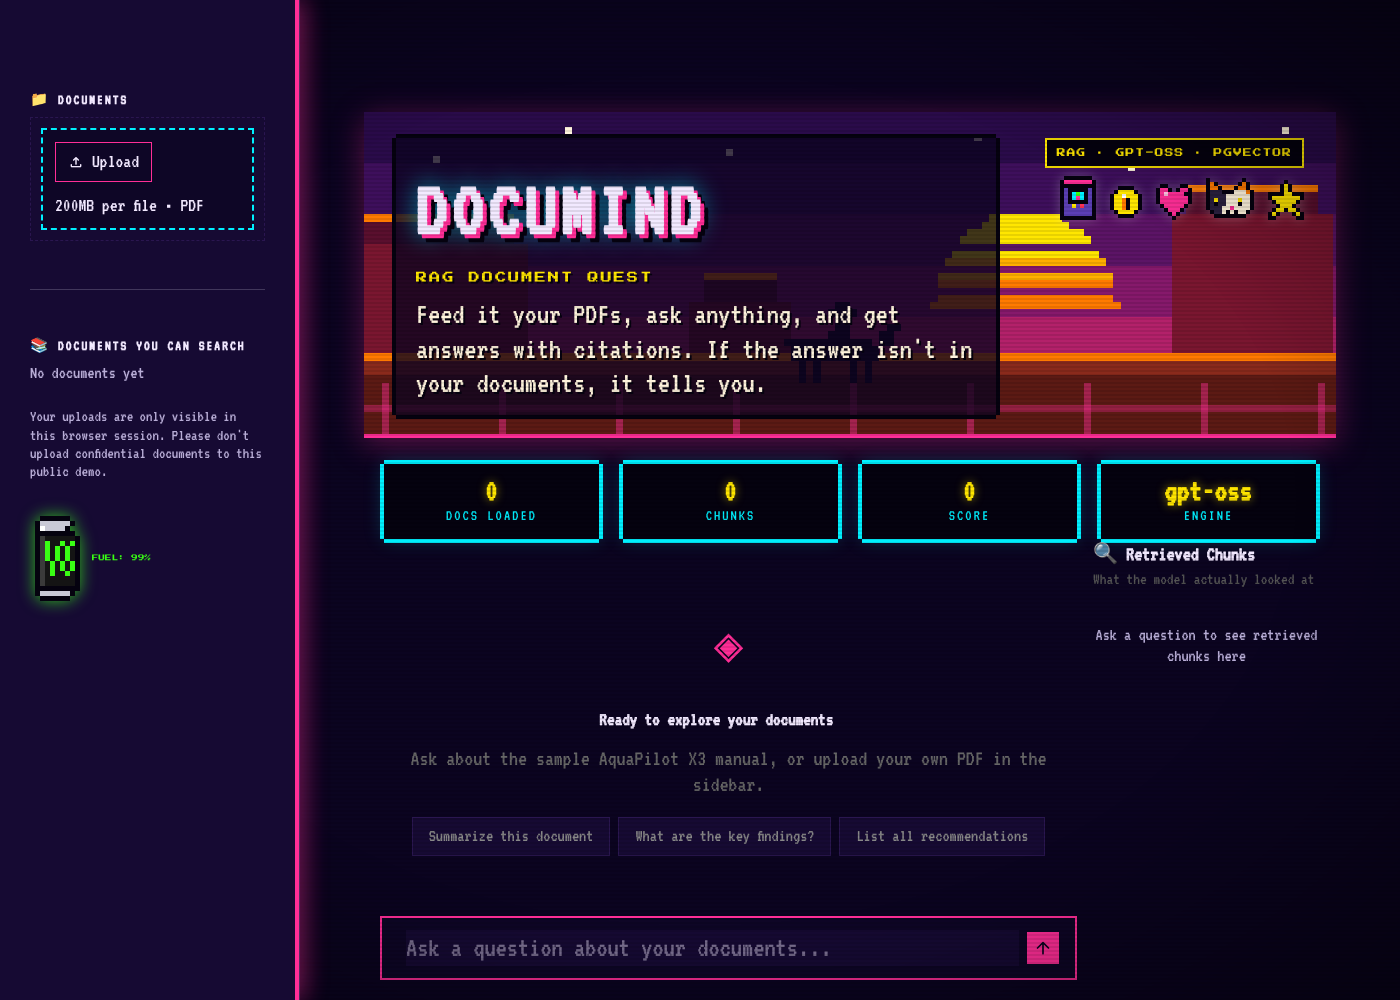
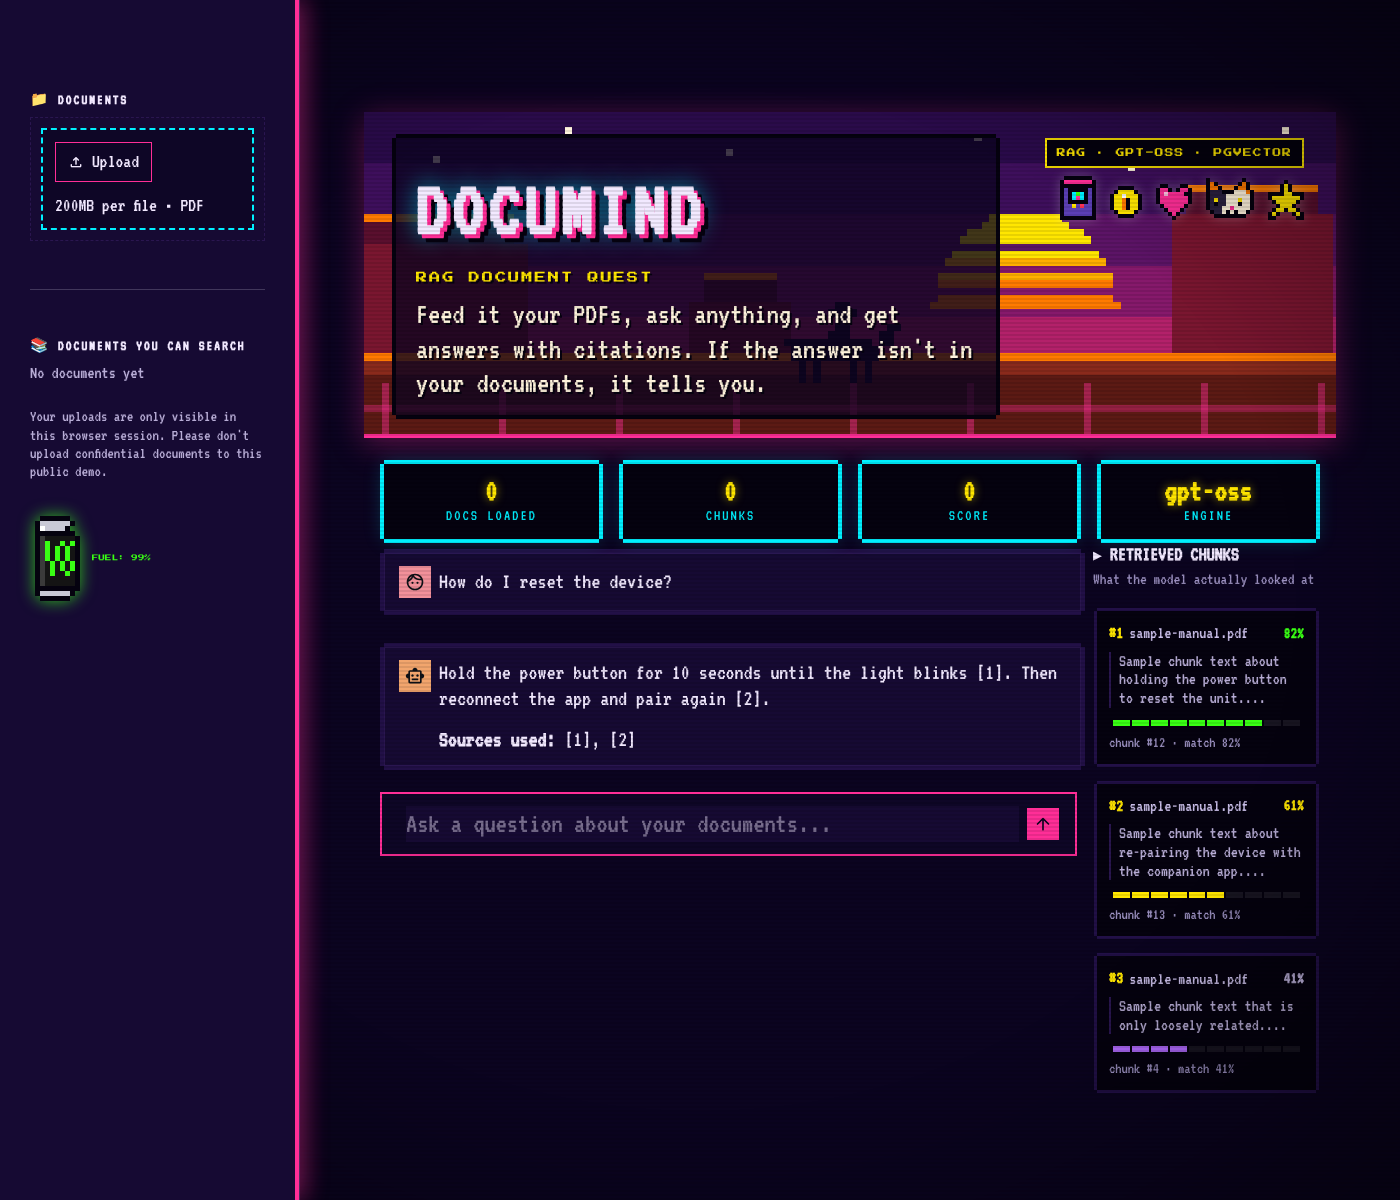
Polish DocuMind: faster answers, working chips, sidebar fix (#4)
- Fix: closing the sidebar hid the button that reopens it (the CSS hid the
  whole header); the reopen button now shows as a neon arrow
- Stream answers word by word instead of one screen update per character
- Load the embedding model in the background at startup, so the first
  question isn't slowed by the model load
- Suggestion chips now actually ask their question
- Pixel-framed chunk cards with a match bar, pixel empty state,
  readable contrast on small grey text

Claude-Session: https://claude.ai/code/session_01Qp39oCquhDt7F7F7ydDNxr

diff --git a/app.py b/app.py
@@ -1,12 +1,15 @@
 import streamlit as st
 
-from retro_ui import arcade_hero, energy_can_egg, inject_theme
+from retro_ui import arcade_hero, energy_can_egg, inject_theme, pixel_svg, xp_bar
+import re
+import threading
 import time
 import uuid
 from config import MAX_UPLOAD_MB
 from ingest import ingest_pdf
 from retriever import retrieve_relevant_chunks, format_context
 from llm import answer_with_citations
+from embeddings import get_embedder
 from database import supabase
 from text_utils import display_name, visible_to
 
@@ -19,6 +22,15 @@ st.set_page_config(
     layout="wide",
     initial_sidebar_state="auto"
 )
+
+@st.cache_resource(show_spinner=False)
+def _warm_embedder():
+    """Load the embedding model in the background so the first question isn't slow."""
+    threading.Thread(target=get_embedder, daemon=True, name="warm-embedder").start()
+    return True
+
+
+_warm_embedder()
 
 # ─────────────────────────────────────────────
 # Session State
@@ -39,6 +51,14 @@ if "session_id" not in st.session_state:
 if st.session_state.get("chat_q"):
     st.session_state.questions_asked += 1
 
+SUGGESTIONS = ["Summarize this document", "What are the key findings?", "List all recommendations"]
+
+
+def _ask(question):
+    """Suggestion chips ask their question as if it were typed."""
+    st.session_state.pending_q = question
+    st.session_state.questions_asked += 1
+
 # ─────────────────────────────────────────────
 # CSS Injection
 # ─────────────────────────────────────────────
@@ -50,7 +70,11 @@ st.markdown("""
 /* ── Hide Streamlit defaults ── */
 #MainMenu {visibility: hidden;}
 footer {visibility: hidden;}
-header {visibility: hidden !important;}
+header[data-testid="stHeader"] {background: transparent !important;}
+/* the header holds the button that reopens the sidebar, so it must stay visible */
+[data-testid="stExpandSidebarButton"], [data-testid="stSidebarCollapsedControl"],
+[data-testid="stSidebarCollapseButton"] {visibility: visible !important; display: flex !important;}
+[data-testid="stToolbarActions"], [data-testid="stMainMenu"], .stAppDeployButton {display: none !important;}
 .stDeployButton {display: none;}
 
 /* ── Root / body ── */
@@ -66,7 +90,7 @@ html, body, [data-testid="stAppViewContainer"], [data-testid="stApp"] {
 
 /* ── Custom Scrollbar ── */
 ::-webkit-scrollbar { width: 4px; }
-::-webkit-scrollbar-track { background: #111; }
+::-webkit-scrollbar-track { background: #05020F; }
 ::-webkit-scrollbar-thumb { background: #FF2E97; border-radius: 0; }
 
 /* ── Buttons ── */
@@ -98,7 +122,7 @@ html, body, [data-testid="stAppViewContainer"], [data-testid="stApp"] {
     border-color: #FF2E97 !important;
 }
 [data-testid="stFileUploader"] label {
-    color: #888 !important;
+    color: #C9BEE8 !important;
     font-family: 'VT323', monospace !important;
 }
 [data-testid="stFileUploader"] button {
@@ -246,7 +270,7 @@ html, body, [data-testid="stAppViewContainer"], [data-testid="stApp"] {
     line-height: 1.1;
 }
 .app-subtitle {
-    color: #888;
+    color: #C9BEE8;
     font-size: 0.85rem;
     margin: 4px 0 0;
     font-family: 'VT323', monospace;
@@ -307,7 +331,7 @@ html, body, [data-testid="stAppViewContainer"], [data-testid="stApp"] {
     white-space: nowrap;
 }
 .success-stats {
-    color: #666;
+    color: #B8ADD6;
     font-size: 0.72rem;
     margin-top: 2px;
 }
@@ -335,7 +359,7 @@ html, body, [data-testid="stAppViewContainer"], [data-testid="stApp"] {
 .stat-item {
     text-align: center;
     padding: 14px 8px;
-    background: #111;
+    background: #05020F;
     border: 1px solid #1C0D40;
     border-radius: 0;
 }
@@ -348,7 +372,7 @@ html, body, [data-testid="stAppViewContainer"], [data-testid="stApp"] {
 }
 .stat-label {
     font-size: 0.7rem;
-    color: #555;
+    color: #9A8FBF;
     text-transform: uppercase;
     letter-spacing: 1px;
     margin-top: 2px;
@@ -375,7 +399,7 @@ html, body, [data-testid="stAppViewContainer"], [data-testid="stApp"] {
     margin: 0 0 8px;
 }
 .empty-subtitle {
-    color: #666;
+    color: #B8ADD6;
     font-size: 0.9rem;
     margin: 0;
 }
@@ -389,7 +413,7 @@ html, body, [data-testid="stAppViewContainer"], [data-testid="stApp"] {
 .chip {
     background: #160A33;
     border: 1px solid #2A1650;
-    color: #888;
+    color: #C9BEE8;
     padding: 8px 16px;
     border-radius: 0;
     font-size: 0.8rem;
@@ -404,8 +428,8 @@ html, body, [data-testid="stAppViewContainer"], [data-testid="stApp"] {
 
 /* ── Chunk cards ── */
 .chunk-card {
-    background: #111;
-    border: 1px solid #222;
+    background: #05020F;
+    border: none;
     border-radius: 0;
     padding: 12px;
     margin: 6px 0;
@@ -429,7 +453,7 @@ html, body, [data-testid="stAppViewContainer"], [data-testid="stApp"] {
     flex-shrink: 0;
 }
 .chunk-file {
-    color: #888;
+    color: #C9BEE8;
     font-size: 0.78rem;
     flex: 1;
     overflow: hidden;
@@ -438,9 +462,9 @@ html, body, [data-testid="stAppViewContainer"], [data-testid="stApp"] {
 }
 .sim-high { color: #39FF14; font-size: 0.75rem; font-weight: 600; }
 .sim-mid  { color: #FFE600; font-size: 0.75rem; font-weight: 600; }
-.sim-low  { color: #888;    font-size: 0.75rem; font-weight: 600; }
+.sim-low  { color: #B8ADD6;    font-size: 0.75rem; font-weight: 600; }
 .chunk-preview {
-    color: #666;
+    color: #B8ADD6;
     font-size: 0.78rem;
     line-height: 1.5;
     margin: 8px 0;
@@ -448,14 +472,14 @@ html, body, [data-testid="stAppViewContainer"], [data-testid="stApp"] {
     padding-left: 8px;
 }
 .chunk-footer {
-    color: #333;
+    color: #9A8FBF;
     font-size: 0.7rem;
 }
 
 /* ── Processing card ── */
 .processing-card {
-    background: #111;
-    border: 1px solid #222;
+    background: #05020F;
+    border: none;
     border-radius: 0;
     padding: 16px;
     margin: 8px 0;
@@ -492,7 +516,7 @@ html, body, [data-testid="stAppViewContainer"], [data-testid="stApp"] {
 }
 .panel-caption {
     font-size: 0.75rem;
-    color: #555;
+    color: #9A8FBF;
     margin-bottom: 12px;
 }
 </style>
@@ -690,18 +714,17 @@ with col1:
     # Intro card, cleared as soon as the first question is asked
     intro = st.empty()
     if not st.session_state.messages:
-        intro.markdown("""
+        intro_box = intro.container()
+        intro_box.markdown("""
         <div class="empty-state">
-            <div class="empty-icon">◈</div>
+            <div class="empty-icon">{cab}</div>
             <h3 class="empty-title">Ready to explore your documents</h3>
             <p class="empty-subtitle">Ask about the sample AquaPilot X3 manual, or upload your own PDF in the sidebar.</p>
-            <div class="suggestion-chips">
-                <div class="chip">Summarize this document</div>
-                <div class="chip">What are the key findings?</div>
-                <div class="chip">List all recommendations</div>
-            </div>
         </div>
-        """, unsafe_allow_html=True)
+        """.replace("{cab}", pixel_svg("cabinet", 7, "Arcade cabinet")), unsafe_allow_html=True)
+        chip_cols = intro_box.columns(len(SUGGESTIONS))
+        for col, q in zip(chip_cols, SUGGESTIONS):
+            col.button(q, key=f"chip_{q}", on_click=_ask, args=(q,), use_container_width=True)
     # Messages go in a container placed above the input, so new answers appear
     # above the chat box instead of below it
     history = st.container()
@@ -711,7 +734,8 @@ with col1:
                 st.markdown(message["content"])
 
     # Chat input (the questions counter is updated at the top of the script)
-    if prompt := st.chat_input("Ask a question about your documents...", key="chat_q"):
+    typed = st.chat_input("Ask a question about your documents...", key="chat_q")
+    if prompt := (typed or st.session_state.pop("pending_q", None)):
         intro.empty()
         # Add user message
         st.session_state.messages.append({"role": "user", "content": prompt})
@@ -720,7 +744,7 @@ with col1:
 
         # Generate answer
         with history, st.chat_message("assistant"):
-            with st.spinner("Searching documents..."):
+            with st.spinner("Scanning documents..."):
                 try:
                     # Retrieve relevant chunks
                     chunks = retrieve_relevant_chunks(prompt, session_id=st.session_state.session_id)
@@ -734,14 +758,14 @@ with col1:
                         # Get LLM answer
                         answer = answer_with_citations(prompt, context, citations)
 
-                    # Typing animation — stream character by character
-                    answer_placeholder = st.empty()
-                    displayed = ""
-                    for char in answer:
-                        displayed += char
-                        answer_placeholder.markdown(displayed + "▌")
-                        time.sleep(0.008)
-                    answer_placeholder.markdown(displayed)
+                    # Typing effect, streamed word by word (one update per word, not per character)
+                    def _words(text):
+                        for token in re.split(r"(\s+)", text):
+                            yield token
+                            if token.strip():
+                                time.sleep(0.015)
+
+                    st.write_stream(_words(answer))
 
                     st.session_state.messages.append({"role": "assistant", "content": answer})
 
@@ -749,7 +773,7 @@ with col1:
                     st.error(f"Error: {str(e)}")
 
 with col2:
-    st.markdown('<div class="panel-heading">🔍 Retrieved Chunks</div>', unsafe_allow_html=True)
+    st.markdown('<div class="panel-heading">&#9654; RETRIEVED CHUNKS</div>', unsafe_allow_html=True)
     st.markdown('<div class="panel-caption">What the model actually looked at</div>', unsafe_allow_html=True)
 
     chunks_to_show = st.session_state.last_chunks
@@ -764,19 +788,23 @@ with col2:
             else:
                 sim_class = "sim-low"
 
-            content_preview = chunk.get("content", "")[:200].replace("<", "&lt;").replace(">", "&gt;")
+            raw = chunk.get("content", "")
+            content_preview = raw[:200].replace("<", "&lt;").replace(">", "&gt;")
+            if len(raw) > 200:
+                content_preview = content_preview.rstrip(" .") + "&hellip;"
             fname = chunk.get("filename", "unknown")
             cidx = chunk.get("chunk_index", 0)
 
             st.markdown(f"""
             <div class="chunk-card">
                 <div class="chunk-header">
-                    <span class="chunk-rank">[{i+1}]</span>
+                    <span class="chunk-rank">#{i+1}</span>
                     <span class="chunk-file">{fname}</span>
                     <span class="{sim_class}">{sim:.0%}</span>
                 </div>
-                <div class="chunk-preview">{content_preview}...</div>
-                <div class="chunk-footer">chunk #{cidx + 1}</div>
+                <div class="chunk-preview">{content_preview}</div>
+                {xp_bar(sim, "#39FF14" if sim > 0.7 else "#FFE600" if sim > 0.5 else "#B26BFF")}
+                <div class="chunk-footer">chunk #{cidx + 1} &middot; match {sim:.0%}</div>
             </div>""", unsafe_allow_html=True)
     else:
         st.markdown('<p style="color:#B8ADD6; font-size:0.8rem; text-align:center; margin-top:24px;">Ask a question to see retrieved chunks here</p>', unsafe_allow_html=True)

diff --git a/retro_ui.py b/retro_ui.py
@@ -7,6 +7,8 @@ plain HTML/CSS, so it works on Streamlit Community Cloud with no extra packages.
 """
 from __future__ import annotations
 
+from functools import lru_cache
+
 import streamlit as st
 
 # ── palette ──────────────────────────────────────────────────────────
@@ -158,6 +160,7 @@ SPRITES: dict[str, tuple[list[str], dict[str, str]]] = {
 }
 
 
+@lru_cache(maxsize=128)
 def pixel_svg(name: str, px: int = 4, label: str | None = None) -> str:
     """Return a crisp inline SVG of a sprite, `px` screen pixels per art pixel."""
     rows, palette = SPRITES[name]
@@ -183,6 +186,7 @@ def pixel_svg(name: str, px: int = 4, label: str | None = None) -> str:
     )
 
 
+@lru_cache(maxsize=4)
 def sunset_scene(rider: bool = True) -> str:
     """A pixel desert at sunset: banded sun, mesas, dunes and a lone rider."""
     W, H = 160, 44
@@ -265,7 +269,13 @@ def sticker_row(names: list[str], px: int = 4) -> str:
 
 def inject_theme() -> None:
     """Global arcade CSS. Call once near the top of the app, after set_page_config."""
-    st.markdown(
+    st.markdown(_theme_css(), unsafe_allow_html=True)
+
+
+@lru_cache(maxsize=1)
+def _theme_css() -> str:
+    """Built once per process; Streamlit reruns the script on every interaction."""
+    return (
         f"""
 <style>
 @import url('https://fonts.googleapis.com/css2?family=Press+Start+2P&family=VT323&display=swap');
@@ -370,6 +380,12 @@ textarea::placeholder {{ color: rgba(242,233,255,0.45) !important; }}
   box-shadow: 0 -4px 0 0 var(--magenta), 0 4px 0 0 var(--magenta), -4px 0 0 0 var(--magenta), 4px 0 0 0 var(--magenta),
     0 0 24px rgba(255,46,151,0.25) !important;
 }}
+[data-testid="stHeader"] {{ background: transparent !important; }}
+[data-testid="stToolbar"] * {{ color: var(--text) !important; }}
+.st-key-btn_approve .stButton > button, .st-key-btn_approve button[data-testid] {{ background: var(--green) !important; color: var(--night) !important; box-shadow: 0 var(--px) 0 0 #1A7A08, 0 0 18px rgba(57,255,20,.45) !important; }}
+.st-key-btn_revise .stButton > button, .st-key-btn_revise button[data-testid] {{ background: var(--yellow) !important; color: var(--night) !important; box-shadow: 0 var(--px) 0 0 #8A7C00 !important; }}
+.st-key-btn_reject .stButton > button, .st-key-btn_reject button[data-testid] {{ background: var(--red) !important; color: #fff !important; box-shadow: 0 var(--px) 0 0 #7A0F22 !important; }}
+.st-key-btn_approve button[data-testid] p, .st-key-btn_revise button[data-testid] p {{ color: var(--night) !important; }}
 .stat-item {{
   border-radius: 0 !important; border: none !important; background: #05020F !important;
   box-shadow: 0 -4px 0 0 var(--cyan), 0 4px 0 0 var(--cyan), -4px 0 0 0 var(--cyan), 4px 0 0 0 var(--cyan),
@@ -388,6 +404,27 @@ textarea::placeholder {{ color: rgba(242,233,255,0.45) !important; }}
 }}
 [data-testid="stChatMessage"] [data-testid^="stChatMessageAvatar"], [data-testid="stChatMessage"] img {{ border-radius: 0 !important; }}
 [data-testid="stFileUploaderDropzone"] {{ border-radius: 0 !important; border: 2px dashed var(--cyan) !important; background: #0E0626 !important; }}
+.px-num, .px-num * {{ font-family: 'Press Start 2P', monospace !important; font-size-adjust: none !important; font-size: 1.05rem !important; }}
+.chunk-card {{
+  background: #05020F !important; border: none !important; border-radius: 0 !important; margin: 10px 4px !important;
+  box-shadow: 0 -3px 0 0 var(--panel2), 0 3px 0 0 var(--panel2), -3px 0 0 0 var(--panel2), 3px 0 0 0 var(--panel2) !important;
+}}
+.chunk-card:hover {{ box-shadow: 0 -3px 0 0 var(--cyan), 0 3px 0 0 var(--cyan), -3px 0 0 0 var(--cyan), 3px 0 0 0 var(--cyan), 0 0 16px rgba(0,240,255,.3) !important; }}
+.chunk-card .xp-bar {{ margin: 6px 0 4px; }} .chunk-card .xp-cell {{ height: 6px; }}
+.chunk-rank {{ color: var(--yellow) !important; }}
+[class*="st-key-chip_"] button, [class*="st-key-chip_"] button[data-testid] {{
+  background: var(--panel) !important; color: var(--cyan) !important; min-height: 44px;
+  box-shadow: 0 -3px 0 0 var(--cyan), 0 3px 0 0 var(--cyan), -3px 0 0 0 var(--cyan), 3px 0 0 0 var(--cyan) !important;
+}}
+[class*="st-key-chip_"] button p {{ font-family: 'VT323', monospace !important; font-size: 1.1rem !important; text-transform: none; color: var(--cyan) !important; white-space: normal !important; overflow: visible !important; text-overflow: clip !important; line-height: 1.1; }}
+[class*="st-key-chip_"] button:hover {{ background: var(--cyan) !important; }}
+[class*="st-key-chip_"] button:hover p {{ color: var(--night) !important; }}
+.empty-icon .px-sprite {{ filter: drop-shadow(0 0 12px rgba(255,46,151,.6)); }}
+[data-testid="stExpandSidebarButton"], [data-testid="stSidebarCollapsedControl"] button {{
+  background: var(--magenta) !important; color: #fff !important; border-radius: 0 !important;
+  box-shadow: 0 3px 0 0 #8A0E4D, 0 0 14px rgba(255,46,151,.6) !important; min-width: 40px; min-height: 40px;
+}}
+[data-testid="stExpandSidebarButton"] *, [data-testid="stSidebarCollapsedControl"] button * {{ color: #fff !important; }}
 /* sliders: square thumb */
 [data-testid="stSlider"] [role="slider"] {{
   border-radius: 0 !important; background: var(--yellow) !important;
@@ -495,8 +532,7 @@ textarea::placeholder {{ color: rgba(242,233,255,0.45) !important; }}
   .arcade-hero {{ min-height: 260px; }}
 }}
 </style>
-        """,
-        unsafe_allow_html=True,
+        """
     )
 
 
